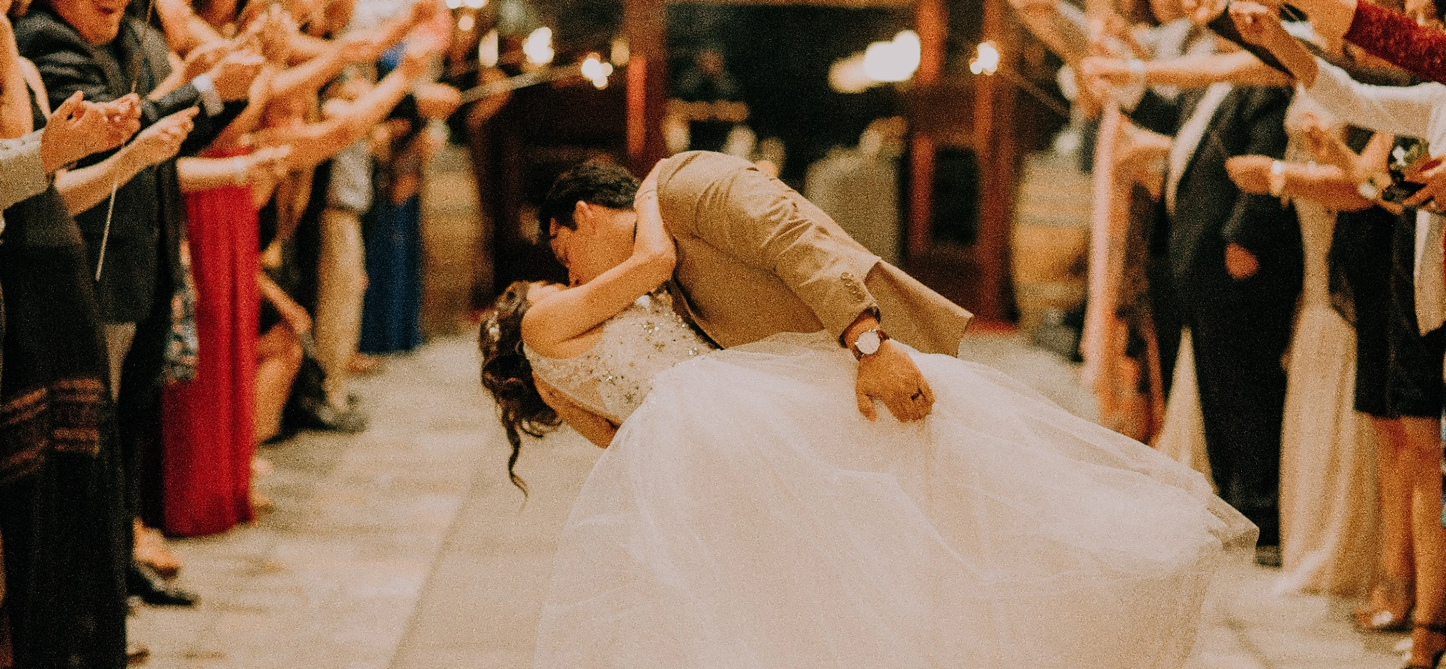
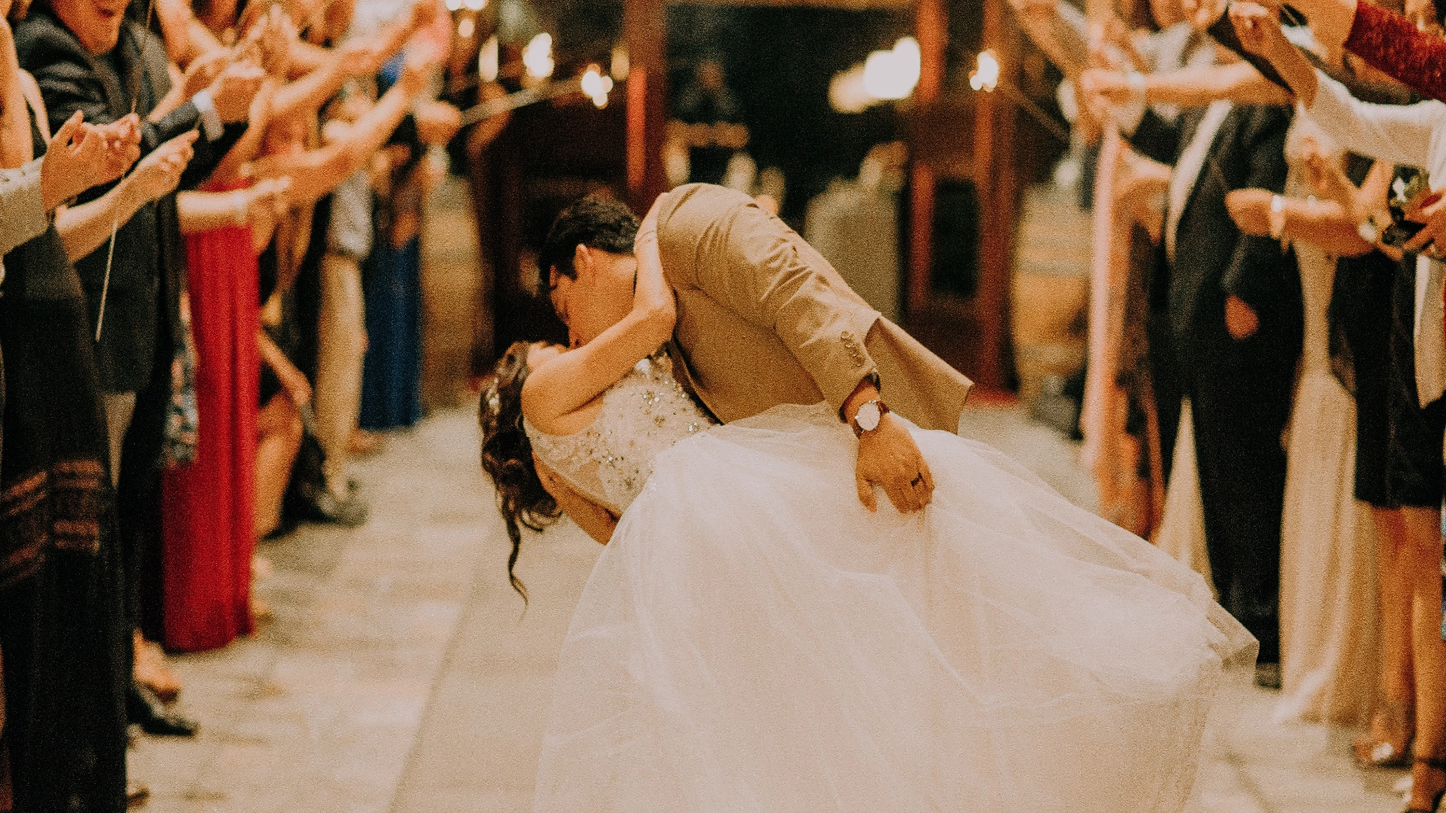
test redimensions des images du carousel

diff --git a/index.html b/index.html
@@ -72,13 +72,13 @@
 	<link rel="canonical" itemprop="url" href="https://github.com/Arnaud-Goguelin/OC_Projet5_Debug_Optimisation_Portfolio_Photographe/deployments" />
 	<!-- Styles sheets -->
 	<link rel="shortcut icon" href="assets/images webp/favicon.ico">
-	<link rel="stylesheet" href="./assets/bootstrap/bootstrap.css" defer>
-	<link rel="stylesheet" href="./assets/style.css" defer>
+	<link rel="stylesheet" href="./assets/bootstrap/bootstrap.css">
+	<link rel="stylesheet" href="./assets/style.css">
 	<!-- JS code -->
-	<script src="./assets/bootstrap/bootstrap.bundle.js" defer></script>
-	<script src="https://code.jquery.com/jquery-3.4.1.min.js" integrity="sha256-CSXorXvZcTkaix6Yvo6HppcZGetbYMGWSFlBw8HfCJo=" crossorigin="anonymous" defer></script>
-	<script src="./assets/maugallery.js" defer></script>
-	<script src="./assets/scripts.js" defer></script>
+	<script src="./assets/bootstrap/bootstrap.bundle.js" ></script>
+	<script src="https://code.jquery.com/jquery-3.4.1.min.js" integrity="sha256-CSXorXvZcTkaix6Yvo6HppcZGetbYMGWSFlBw8HfCJo=" crossorigin="anonymous"></script>
+	<script src="./assets/maugallery.js"></script>
+	<script src="./assets/scripts.js" ></script>
 </head>
 <body>
 
@@ -106,13 +106,13 @@
 		</div>
 		<div class="carousel-inner">
 			<div class="carousel-item active" aria-current="true">
-				<img width="1920" height="1080" src="./assets/images webp/slider/ryoji.webp" class="d-block w-100" alt="image défilante 1 : homme d'affaire traversant la rue seul, vue de dos plan italien">
+				<img width="1920" height="888" src="./assets/images webp/slider/ryoji.webp" class="d-block w-100" alt="image défilante 1 : homme d'affaire traversant la rue seul, vue de dos plan italien">
 			</div>
 			<div class="carousel-item">
-				<img width="1920" height="1080" src="./assets/images webp/slider/nicholas.webp" class="d-block w-100" alt="image défilante 2 : foule en liesse à un concert, vue de face plan poitrine">
+				<img width="1920" height="888" src="./assets/images webp/slider/nicholas.webp" class="d-block w-100" alt="image défilante 2 : foule en liesse à un concert, vue de face plan poitrine">
 			</div>
 			<div class="carousel-item">
-				<img width="1920" height="1080" src="./assets/images webp/slider/edward.webp" class="d-block w-100" alt="image défilante 3 : à un mariage, baiser renversé du couple marié, vue de profil plan américain">
+				<img width="1920" height="888" src="./assets/images webp/slider/edward.webp" class="d-block w-100" alt="image défilante 3 : à un mariage, baiser renversé du couple marié, vue de profil plan américain">
 			</div>
 		</div>
 		<button class="carousel-control-prev" type="button" data-bs-target="#carouselExampleIndicators" data-bs-slide="prev">
